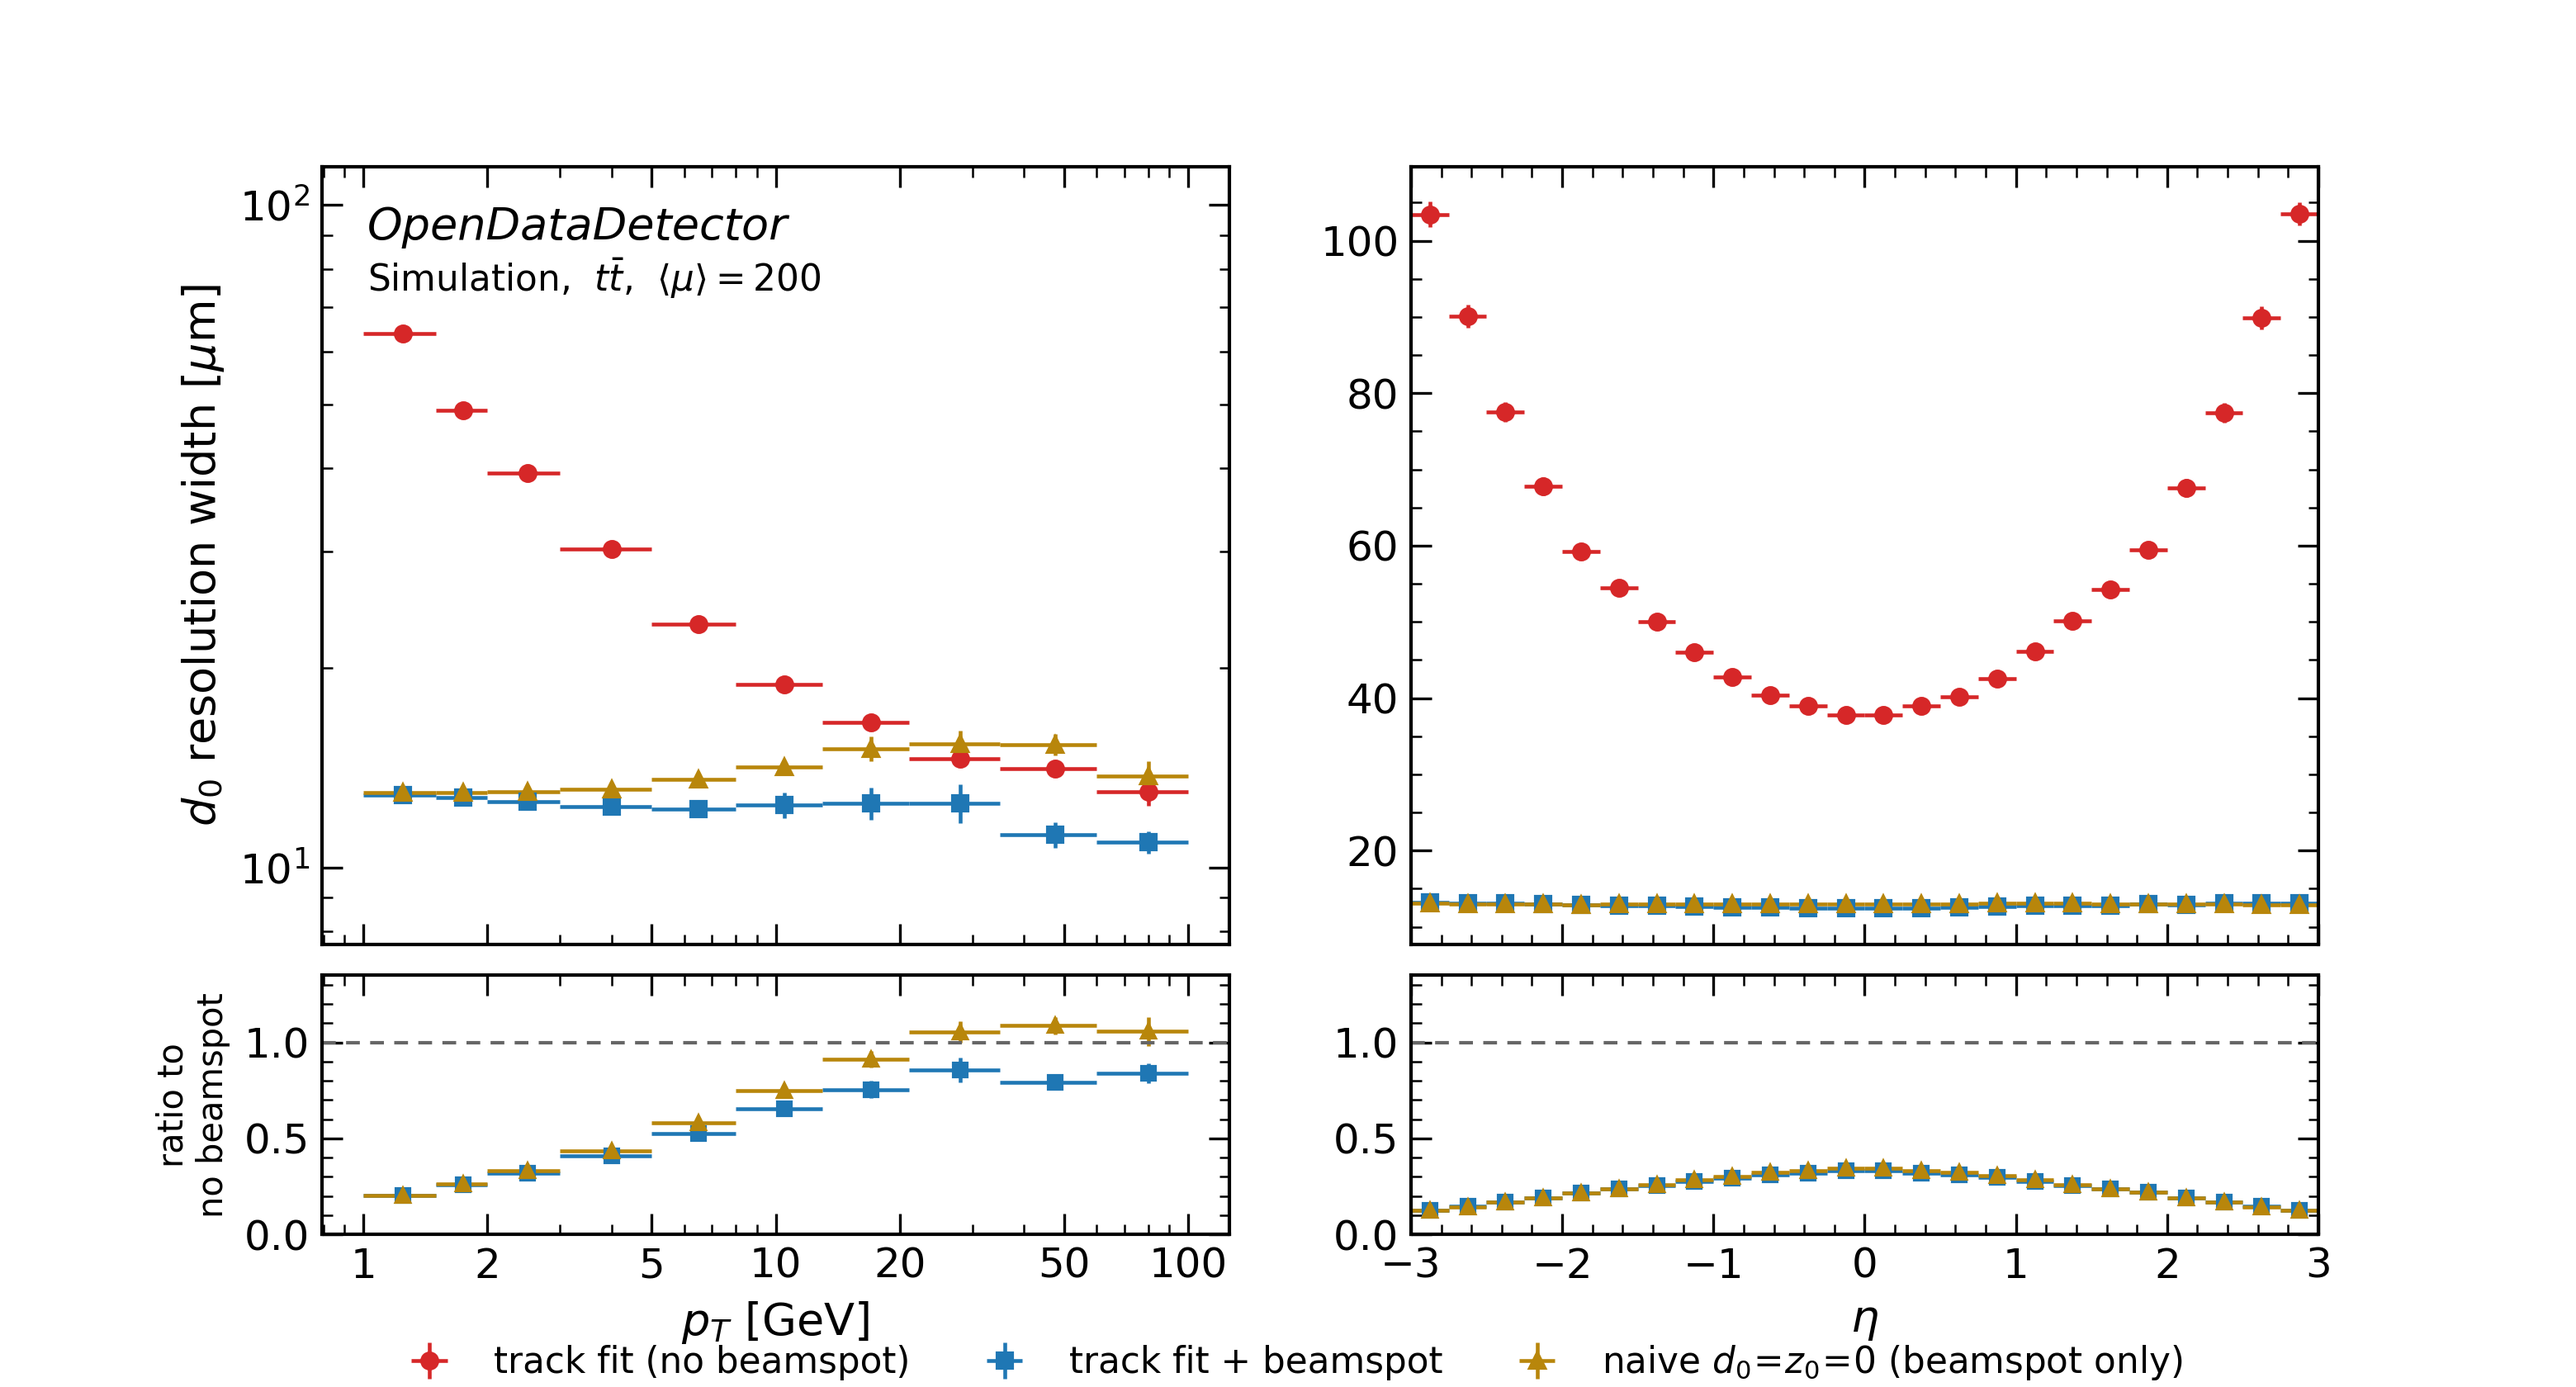
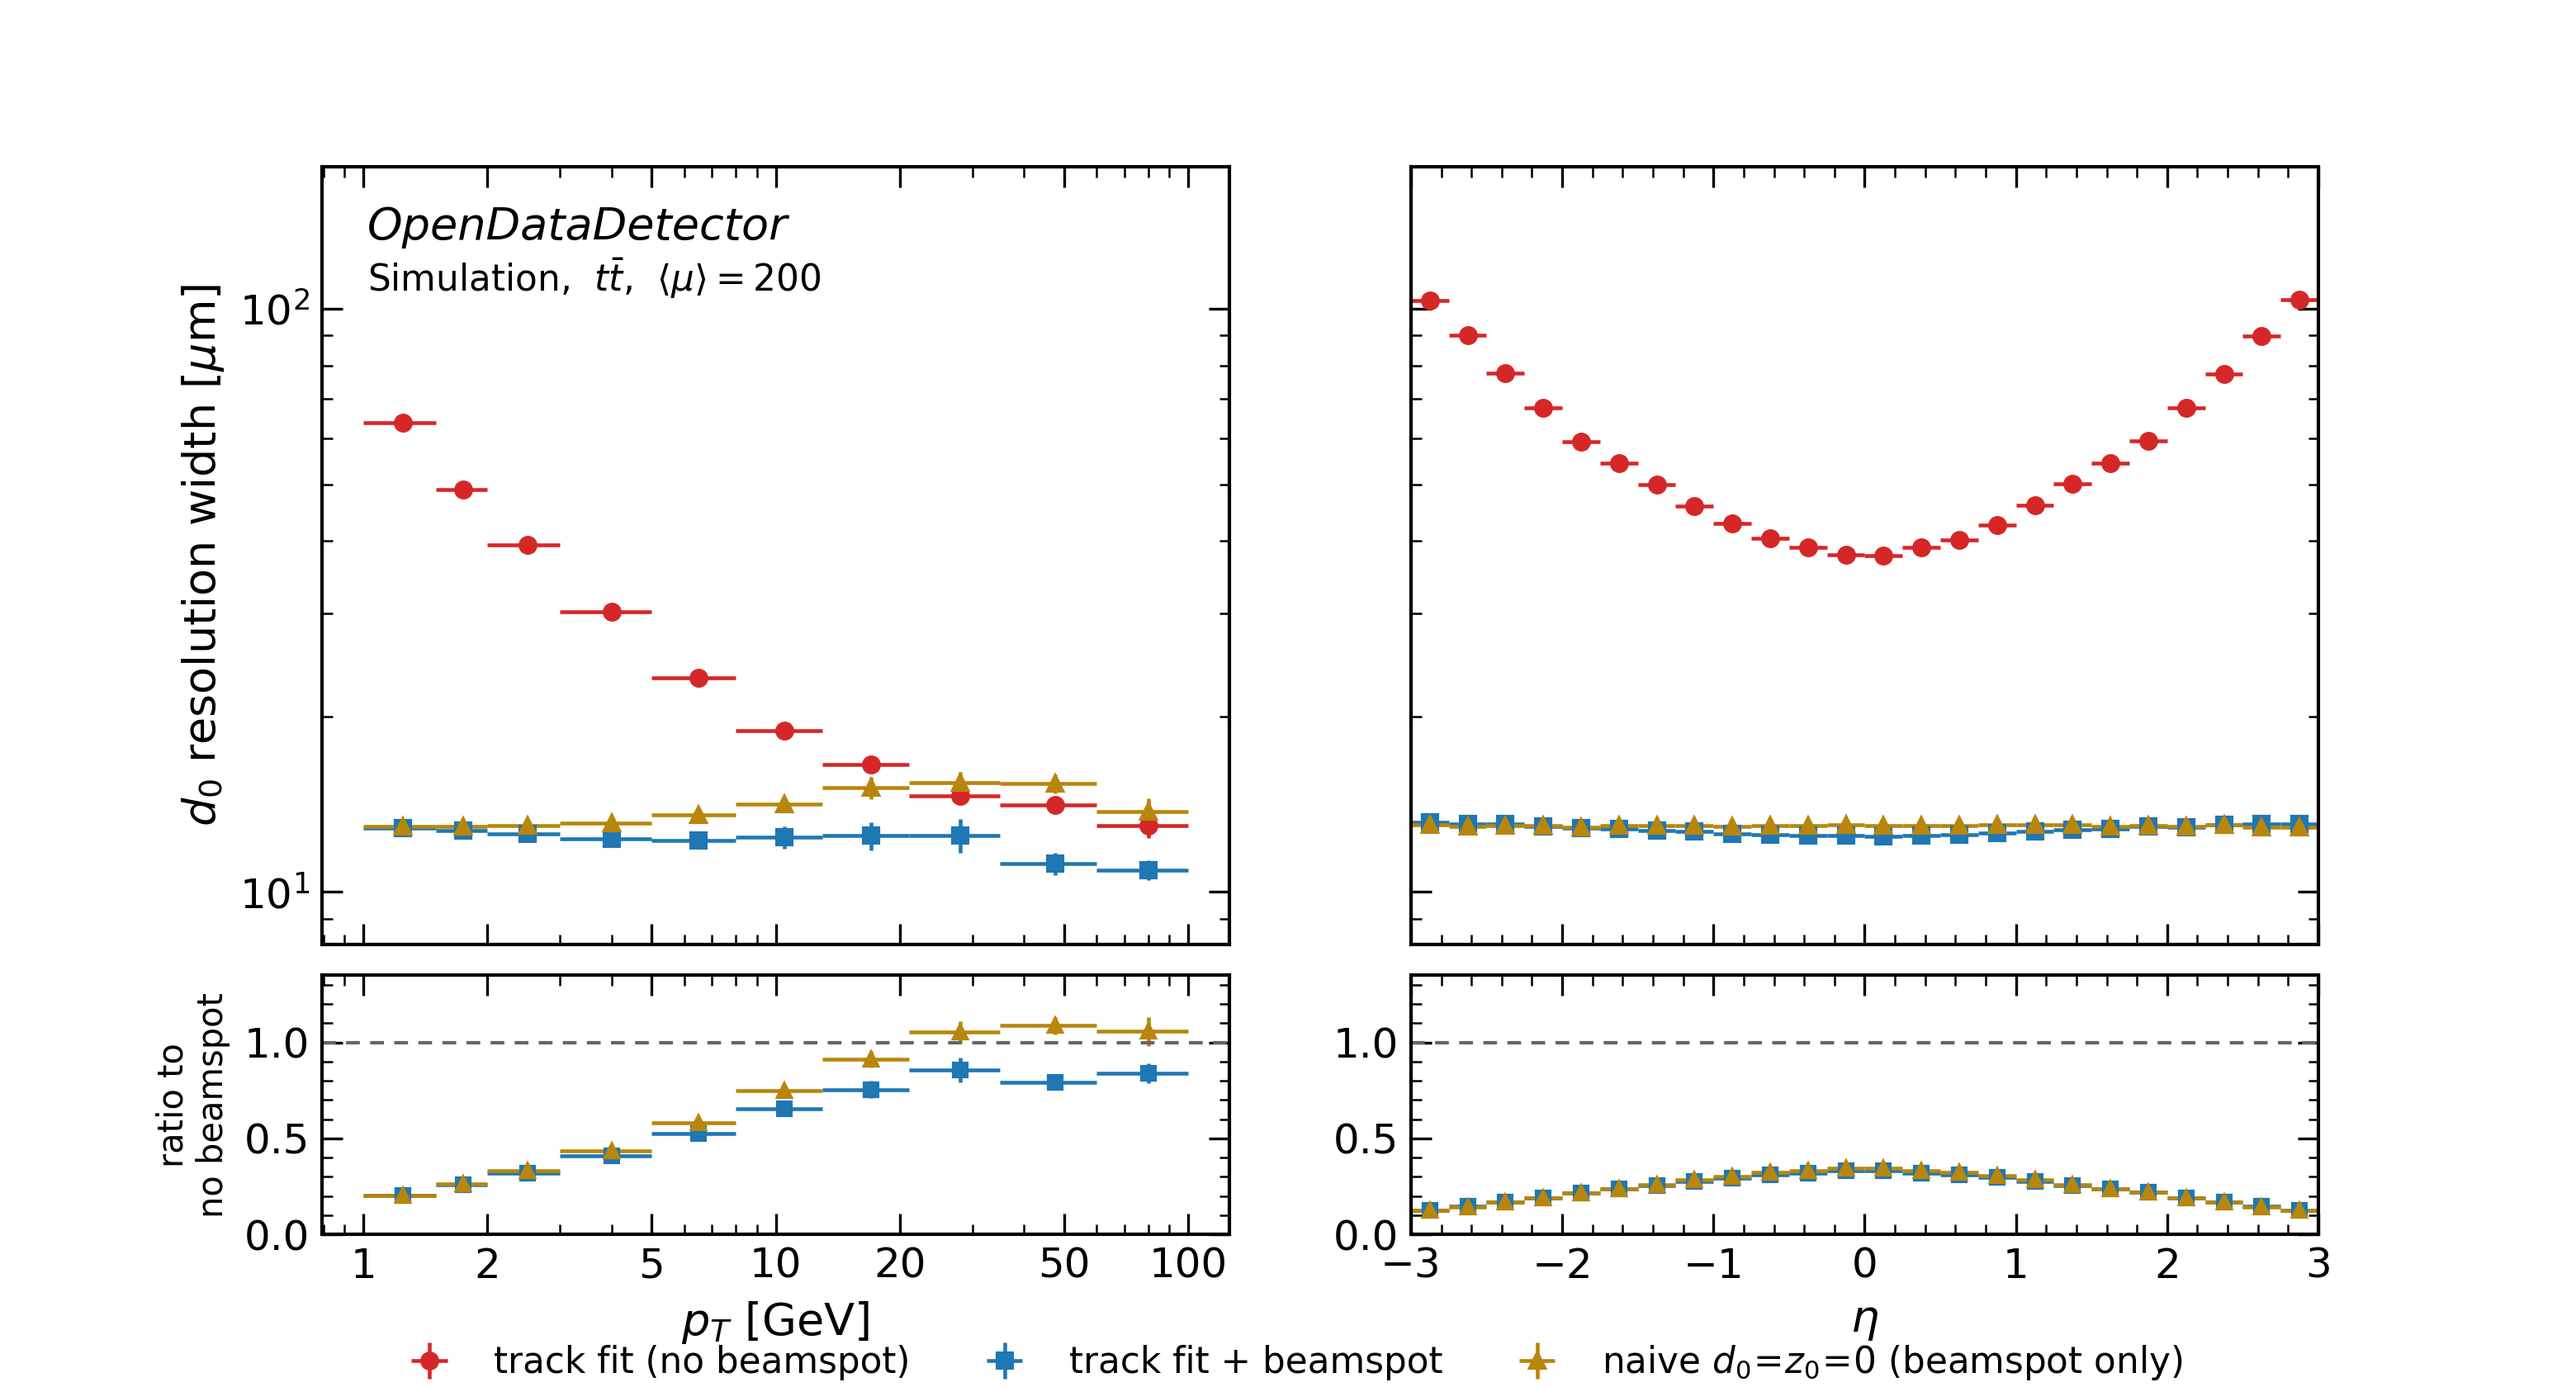
resolution vs pT/eta: log y-axis on both panels (shared scale)

diff --git a/ml/beamspot_studies/evaluation/refit_beamspot_plots.py b/ml/beamspot_studies/evaluation/refit_beamspot_plots.py
@@ -351,9 +351,14 @@ def fig_resolution_vs(dfs, figures_dir, summary):
         else:
             ax.set_xlim(-3, 3)
     axes[0, 0].set_ylabel(r"$d_0$ resolution width [$\mu$m]")
-    axes[0, 0].set_yscale("log")
-    ylo, yhi = axes[0, 0].get_ylim()
-    axes[0, 0].set_ylim(ylo * 0.8, yhi * 1.6)
+    # log y on BOTH top panels, shared range
+    for a in (axes[0, 0], axes[0, 1]):
+        a.set_yscale("log")
+    lo = min(axes[0, 0].get_ylim()[0], axes[0, 1].get_ylim()[0])
+    hi = max(axes[0, 0].get_ylim()[1], axes[0, 1].get_ylim()[1])
+    for a in (axes[0, 0], axes[0, 1]):
+        a.set_ylim(lo * 0.85, hi * 1.5)
+    axes[0, 1].tick_params(labelleft=False)  # same scale as left panel
     axes[1, 0].set_ylabel("ratio to\nno beamspot", fontsize=10)
     odd_label(axes[0, 0])
     handles, labels = axes[0, 0].get_legend_handles_labels()
